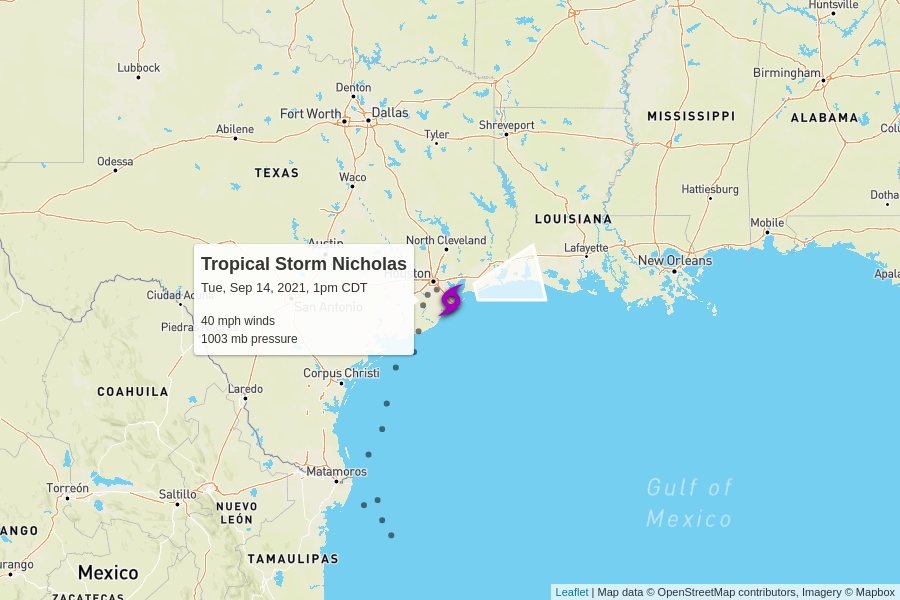
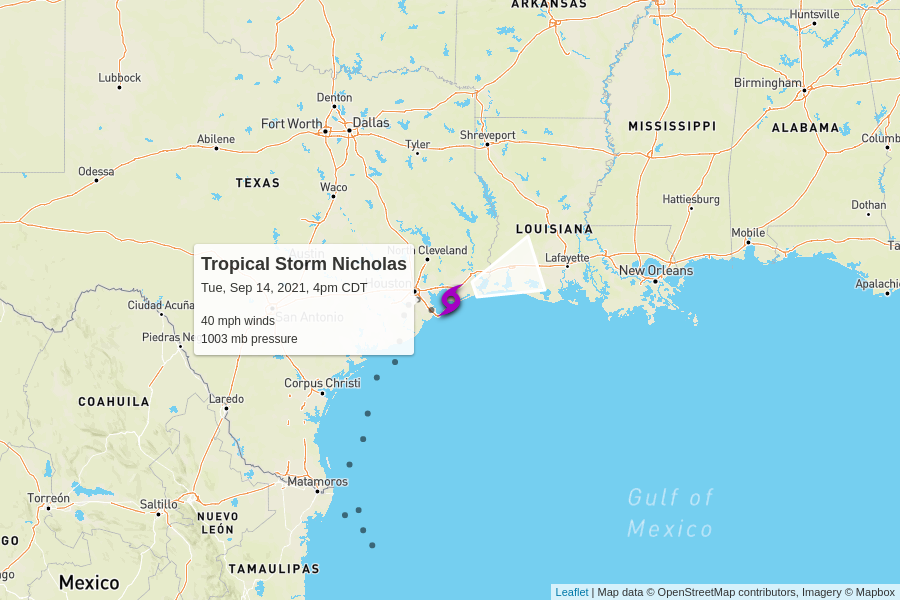
automatic update

diff --git a/docs/index.html b/docs/index.html
@@ -100,7 +100,7 @@
         <td colspan="6" class="storm category-0" >
           <h2>
             Tropical Storm Nicholas
-            <p class="updated">last updated <span data-time>2021-09-14T18:00:00.000Z</span></p>
+            <p class="updated">last updated <span data-time>2021-09-14T21:00:00.000Z</span></p>
           </h2>
         </td>
       </tr>
@@ -118,9 +118,9 @@
         <td>40 mph</td>
         <td>1003 mb</td>
         <td>
-          7 mph to the east-northeast
+          6 mph to the east-northeast
           <br/>
-          <span style="display: inline-block; font-size: 1.5em; transform: rotate(75deg);">↑</span>
+          <span style="display: inline-block; font-size: 1.5em; transform: rotate(70deg);">↑</span>
         </td>
         <td><a href="https://raw.githubusercontent.com/mgwalker/atlantic-hurricanes/main/data/csv/AL142021.csv">AL142021.csv</a></td>
         <td><a href="https://www.nhc.noaa.gov/archive/2021/NICHOLAS.shtml?">NHC advisories</a></td>
